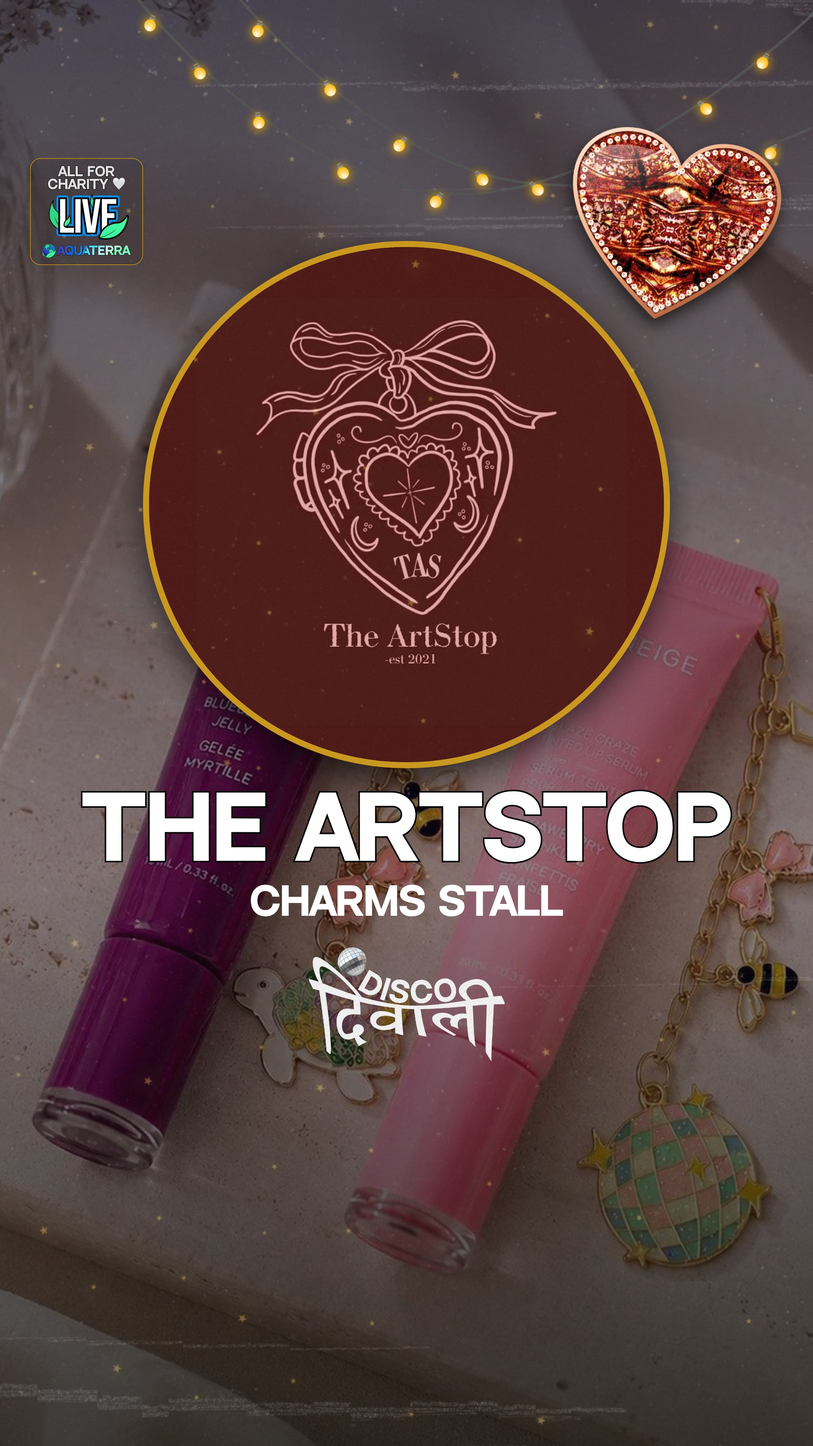
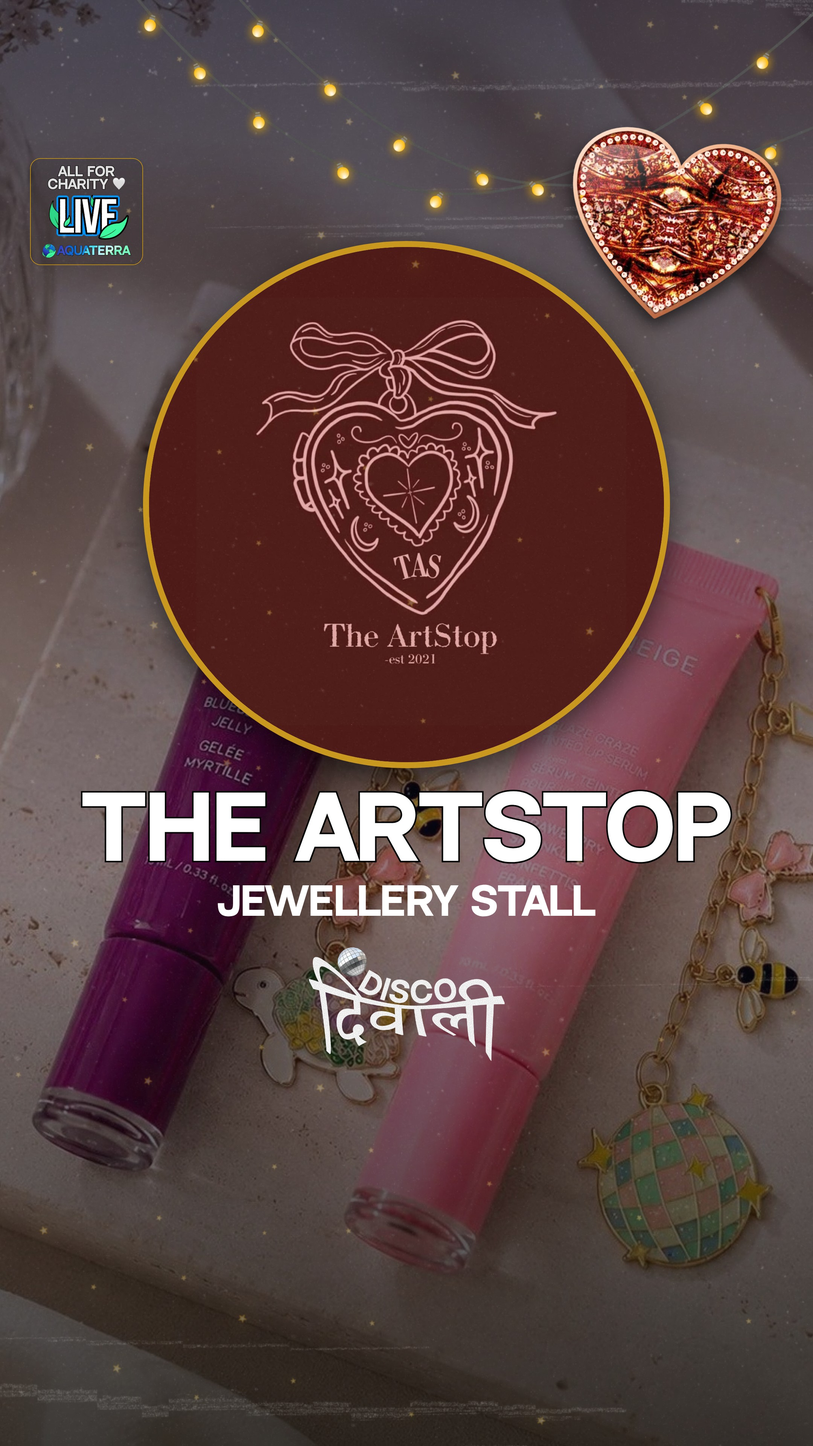
The ArtStop: tagline is JEWELLERY STALL
Claude-Session: https://claude.ai/code/session_01Hjb3YdETYzUX9KQBuy3LJ5

Changed region(s): [[0.2792, 0.5938, 0.7134, 0.6562]]

diff --git a/scratchpad/dd_artstop.py b/scratchpad/dd_artstop.py
@@ -1,4 +1,4 @@
-"""DISCO DIWALI "THE ARTSTOP" charms stall poster (copy of dd_meetcute.py: vendor logo filling the circle, the vendor's own lip-balm-charm photo as the ground, the existing copper heart sticker to echo the locket logo), feed (1080x1350, also the WhatsApp size) and story (1080x1920), 2026-10-24.
+"""DISCO DIWALI "THE ARTSTOP" jewellery stall poster (copy of dd_meetcute.py: vendor logo filling the circle, the vendor's own lip-balm-charm photo as the ground, the existing copper heart sticker to echo the locket logo), feed (1080x1350, also the WhatsApp size) and story (1080x1920), 2026-10-24.
 From the user's Paradox reference (circular photo, big red NANDU JEE, two-part tagline, JOIN NOW button, sponsor + logos): the MECHANISM is kept
 (real photo in a circle, display headline, snarky tagline) and rebuilt on the Disco Diwali skeleton: diya ground, string lights, LIVE badge, copper diya sticker on the
 circle's corner, the lockup (with ball) as the footer mark. Adaptations: the Realmark title-sponsor mark, the Paradox logo and the beach palms are NOT Disco Diwali's, so they
@@ -46,7 +46,7 @@ def poster(H):
                      f'text-transform:uppercase;white-space:nowrap;{STROKE if stroke else "color:#fff;"}z-index:20">{txt}</div>'); els.append((tag, 40, top, 1000, h))
     line("head", "The ArtStop", hy, hs, 700, hs)
     t1 = hy + hs + 14
-    line("tag1", "Charms stall", t1, 50, 700, 54, stroke=False)
+    line("tag1", "Jewellery stall", t1, 50, 700, 54, stroke=False)
     y = t1 + 54 + (30 if story else 26)
     # footer lockup, with ball
     vw = 260 if story else 300
